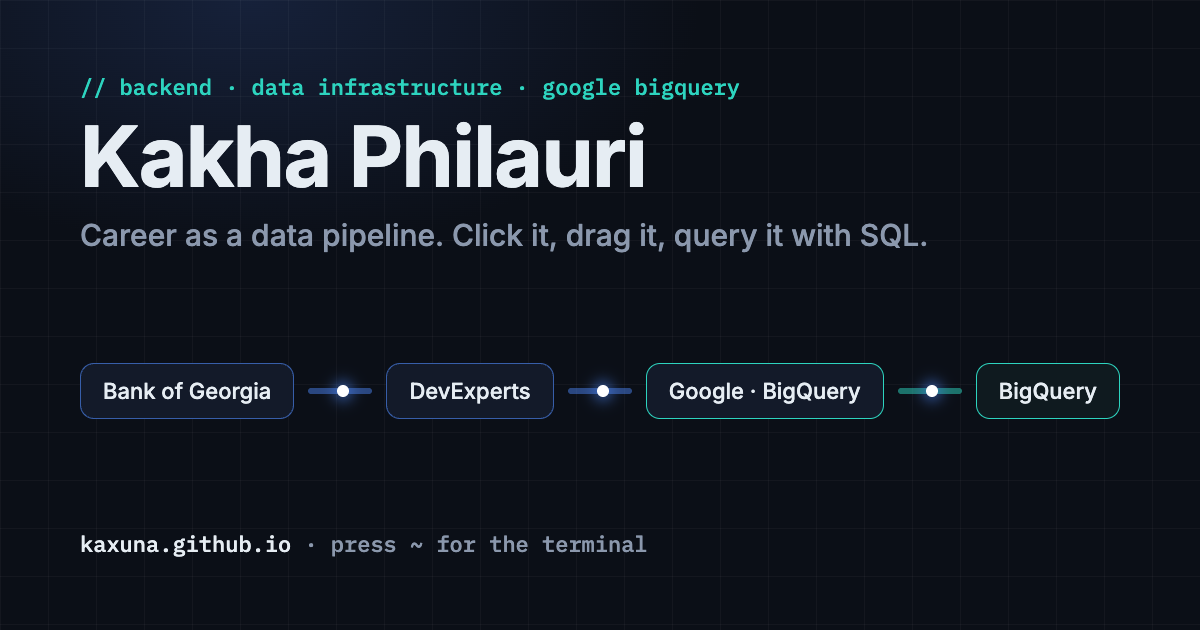
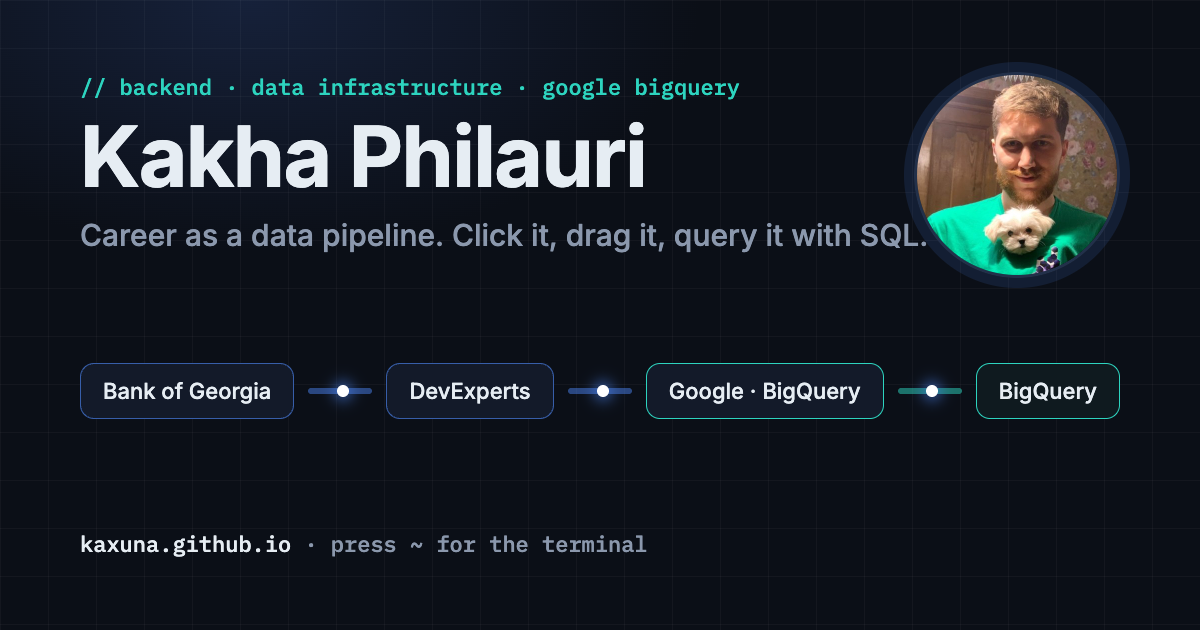
Add profile photo to hero and OG card

Changed region(s): [[0.74, 0.0905, 0.9558, 0.4825]]

diff --git a/tools/og.html b/tools/og.html
@@ -18,10 +18,12 @@
   .pipe::after { content: ''; position: absolute; top: -3px; left: 45%; width: 12px; height: 12px; border-radius: 50%; background: #fff; box-shadow: 0 0 14px 4px rgba(79,140,255,.6); }
   .foot { font-family: 'IBM Plex Mono', monospace; color: #8b98ad; font-size: 22px; }
   .foot b { color: #e6edf3; font-weight: 500; }
+  .photo { position: absolute; right: 80px; top: 72px; width: 200px; height: 200px; border-radius: 50%; object-fit: cover; border: 3px solid #22304a; box-shadow: 0 0 0 10px rgba(79,140,255,.12); }
 </style></head>
 <body>
 <div class="glow"></div><div class="grid"></div>
 <div class="wrap">
+  <img class="photo" src="../public/photo.jpg" alt="">
   <div>
     <p class="eyebrow">// backend · data infrastructure · google bigquery</p>
     <h1>Kakha Philauri</h1>
